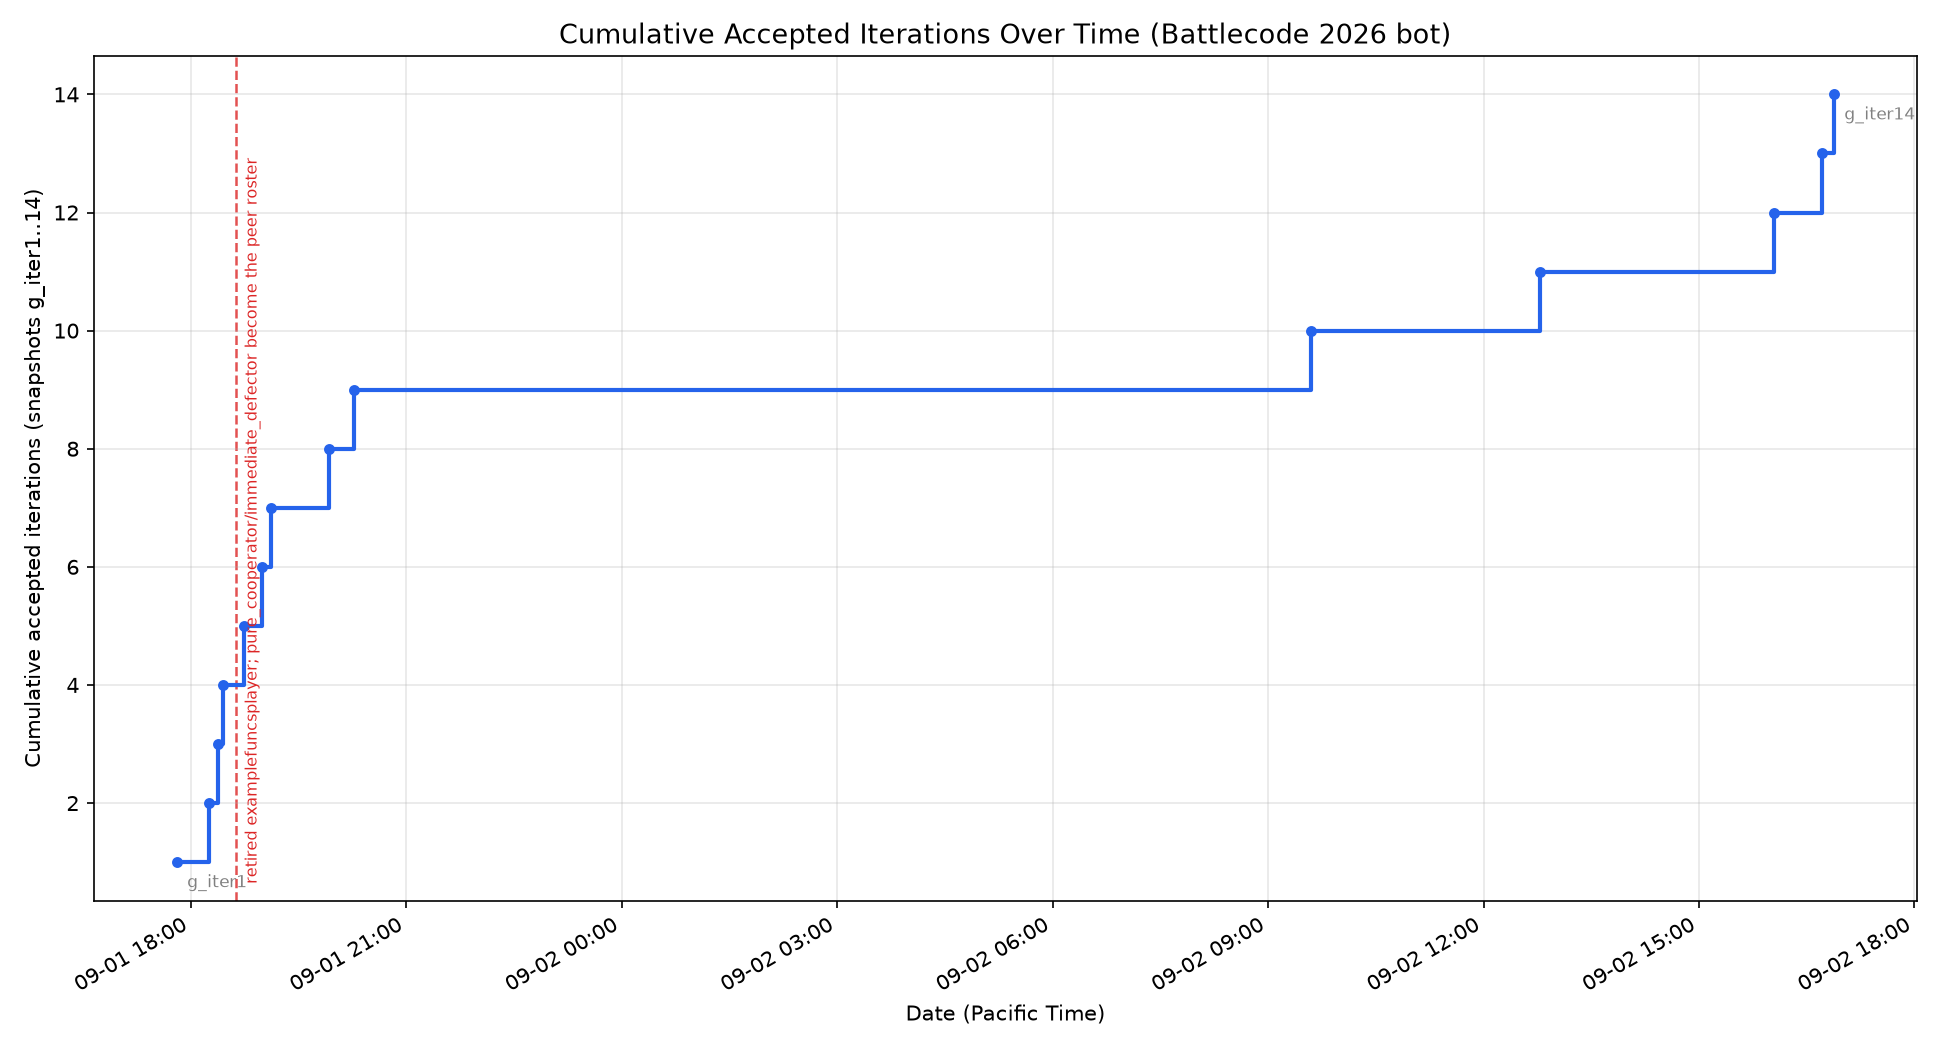
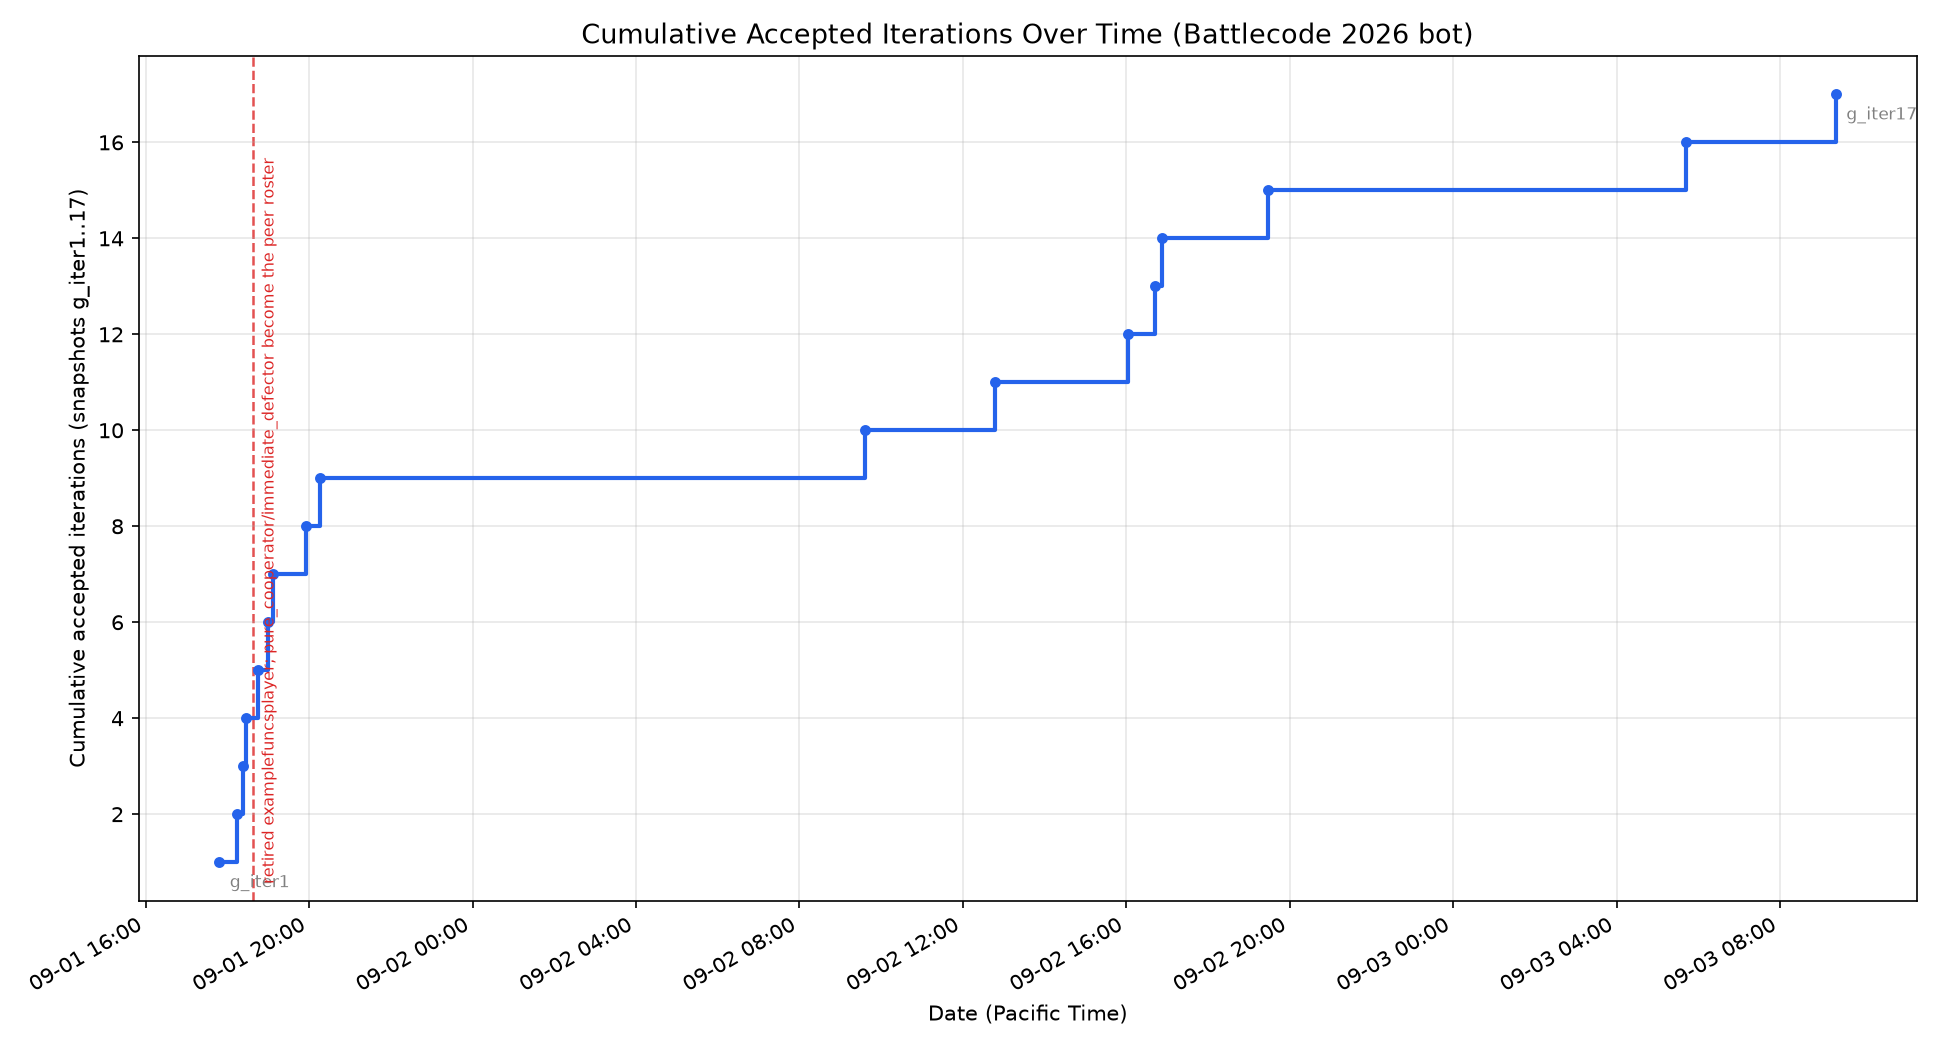
Fix skipped cumulative-iterations chart; Iteration 91 shows an interior optimum
Process fix per user instruction: I had been regenerating vs_old_bots.png and
peer_win_spread.png after each accept but NOT cumulative_iterations.png, which
sat stale at 02:27 while Iterations 82 and 88 were accepted. Regenerated (17
accepted iterations, g_iter1..g_iter17) and recorded in the standing memory
note. The routine is four commands, and plot_progress.py must run AFTER the new
g_iterN snapshot exists since it reads those directories.

Iteration 91 (gate 600): 22/54 = 40.7%, against gate 1000's 53.7% and the
gate-1200 baseline's 50%. A clean interior optimum at 1000 -- dropping to 600
strips the survival reserve, the same mechanism that made Iteration 60's flat
cap bankrupt us.

The shape matters for reading Iteration 90: +2 games alone is marginal, but as
the peak of a curve falling away on both sides it is structure, not noise.

Claude-Session: https://claude.ai/code/session_01Sgao6EtbbgQ6mM5ZhH5FGP

diff --git a/src/bot/RobotPlayer.java b/src/bot/RobotPlayer.java
@@ -275,7 +275,7 @@ public class RobotPlayer {
         // afford to build at all, we build against the higher cap. This does
         // not touch REPLACEMENT_RESERVE itself, which the ablation program
         // measured at ~+24 points and which stays exactly as is.
-        final int MAX_POPULATION = rc.getGlobalCheese() > 600 ? 40 : 25;
+        final int MAX_POPULATION = rc.getGlobalCheese() > 1000 ? 40 : 25;
         final int BUILD_WINDOW_ROUNDS = 400;
         final int REPLACEMENT_RESERVE = 1000;
         if (rc.getRoundNum() - buildWindowStart >= BUILD_WINDOW_ROUNDS) {

diff --git a/TRAINING_LOG.md b/TRAINING_LOG.md
@@ -6063,3 +6063,41 @@ This is the second degenerate state caused by two independently-reasonable
 constants interacting, and the third found by tracing rather than theorising.
 
 Iteration 91 doses the gate to 600 to see whether the effect scales.
+
+### Process fix — the cumulative-iterations chart was being skipped
+
+User instruction: *"please remember to regenerate cumulative-iterations graph
+after every accept."* Correct, and I had not been. After each accept today I
+regenerated `vs_old_bots.png` and `peer_win_spread.png` but not
+`cumulative_iterations.png`, which sat stale at 02:27 while Iterations 82 and
+88 were accepted. Now regenerated: 17 accepted iterations, `g_iter1..g_iter17`.
+
+The post-accept routine is four commands, not three, and the ordering matters
+— `plot_progress.py` reads the `src/g_iterN/` directories, so it is only
+correct once the new snapshot exists:
+
+    tools/.venv/bin/python3 tools/track_vs_old_bots.py gauntlet/<run-id>/
+    tools/.venv/bin/python3 tools/plot_vs_old_bots.py
+    tools/.venv/bin/python3 tools/plot_progress.py        # <-- was being skipped
+    tools/.venv/bin/python3 tools/plot_alt_metrics.py
+
+Recorded in the standing memory note so it survives the session.
+
+## Iteration 91 — dose the gate to 600 — inverted; optimum is interior
+
+    gate  600 vs g_iter17:  22/54 = 40.7%
+    gate 1000 vs g_iter17:  29/54 = 53.7%
+    gate 1200 (g_iter17)  :  50% by construction
+
+A clean interior optimum at 1000. Dropping the gate to 600 is actively
+harmful — building down that far strips the survival reserve, which is the
+same mechanism that made Iteration 60's flat cap bankrupt us.
+
+The non-monotone shape matters for interpreting Iteration 90. On its own,
++2 games at gate 1000 is marginal enough to dismiss; as the peak of a curve
+that falls away on *both* sides (50% at 1200, 53.7% at 1000, 40.7% at 600) it
+is structure rather than noise. This is the reading that the corrected
+dose-response rule makes available — measure the arms around a candidate
+rather than treating one number as the verdict.
+
+Peer regression check on gate 1000 running.
